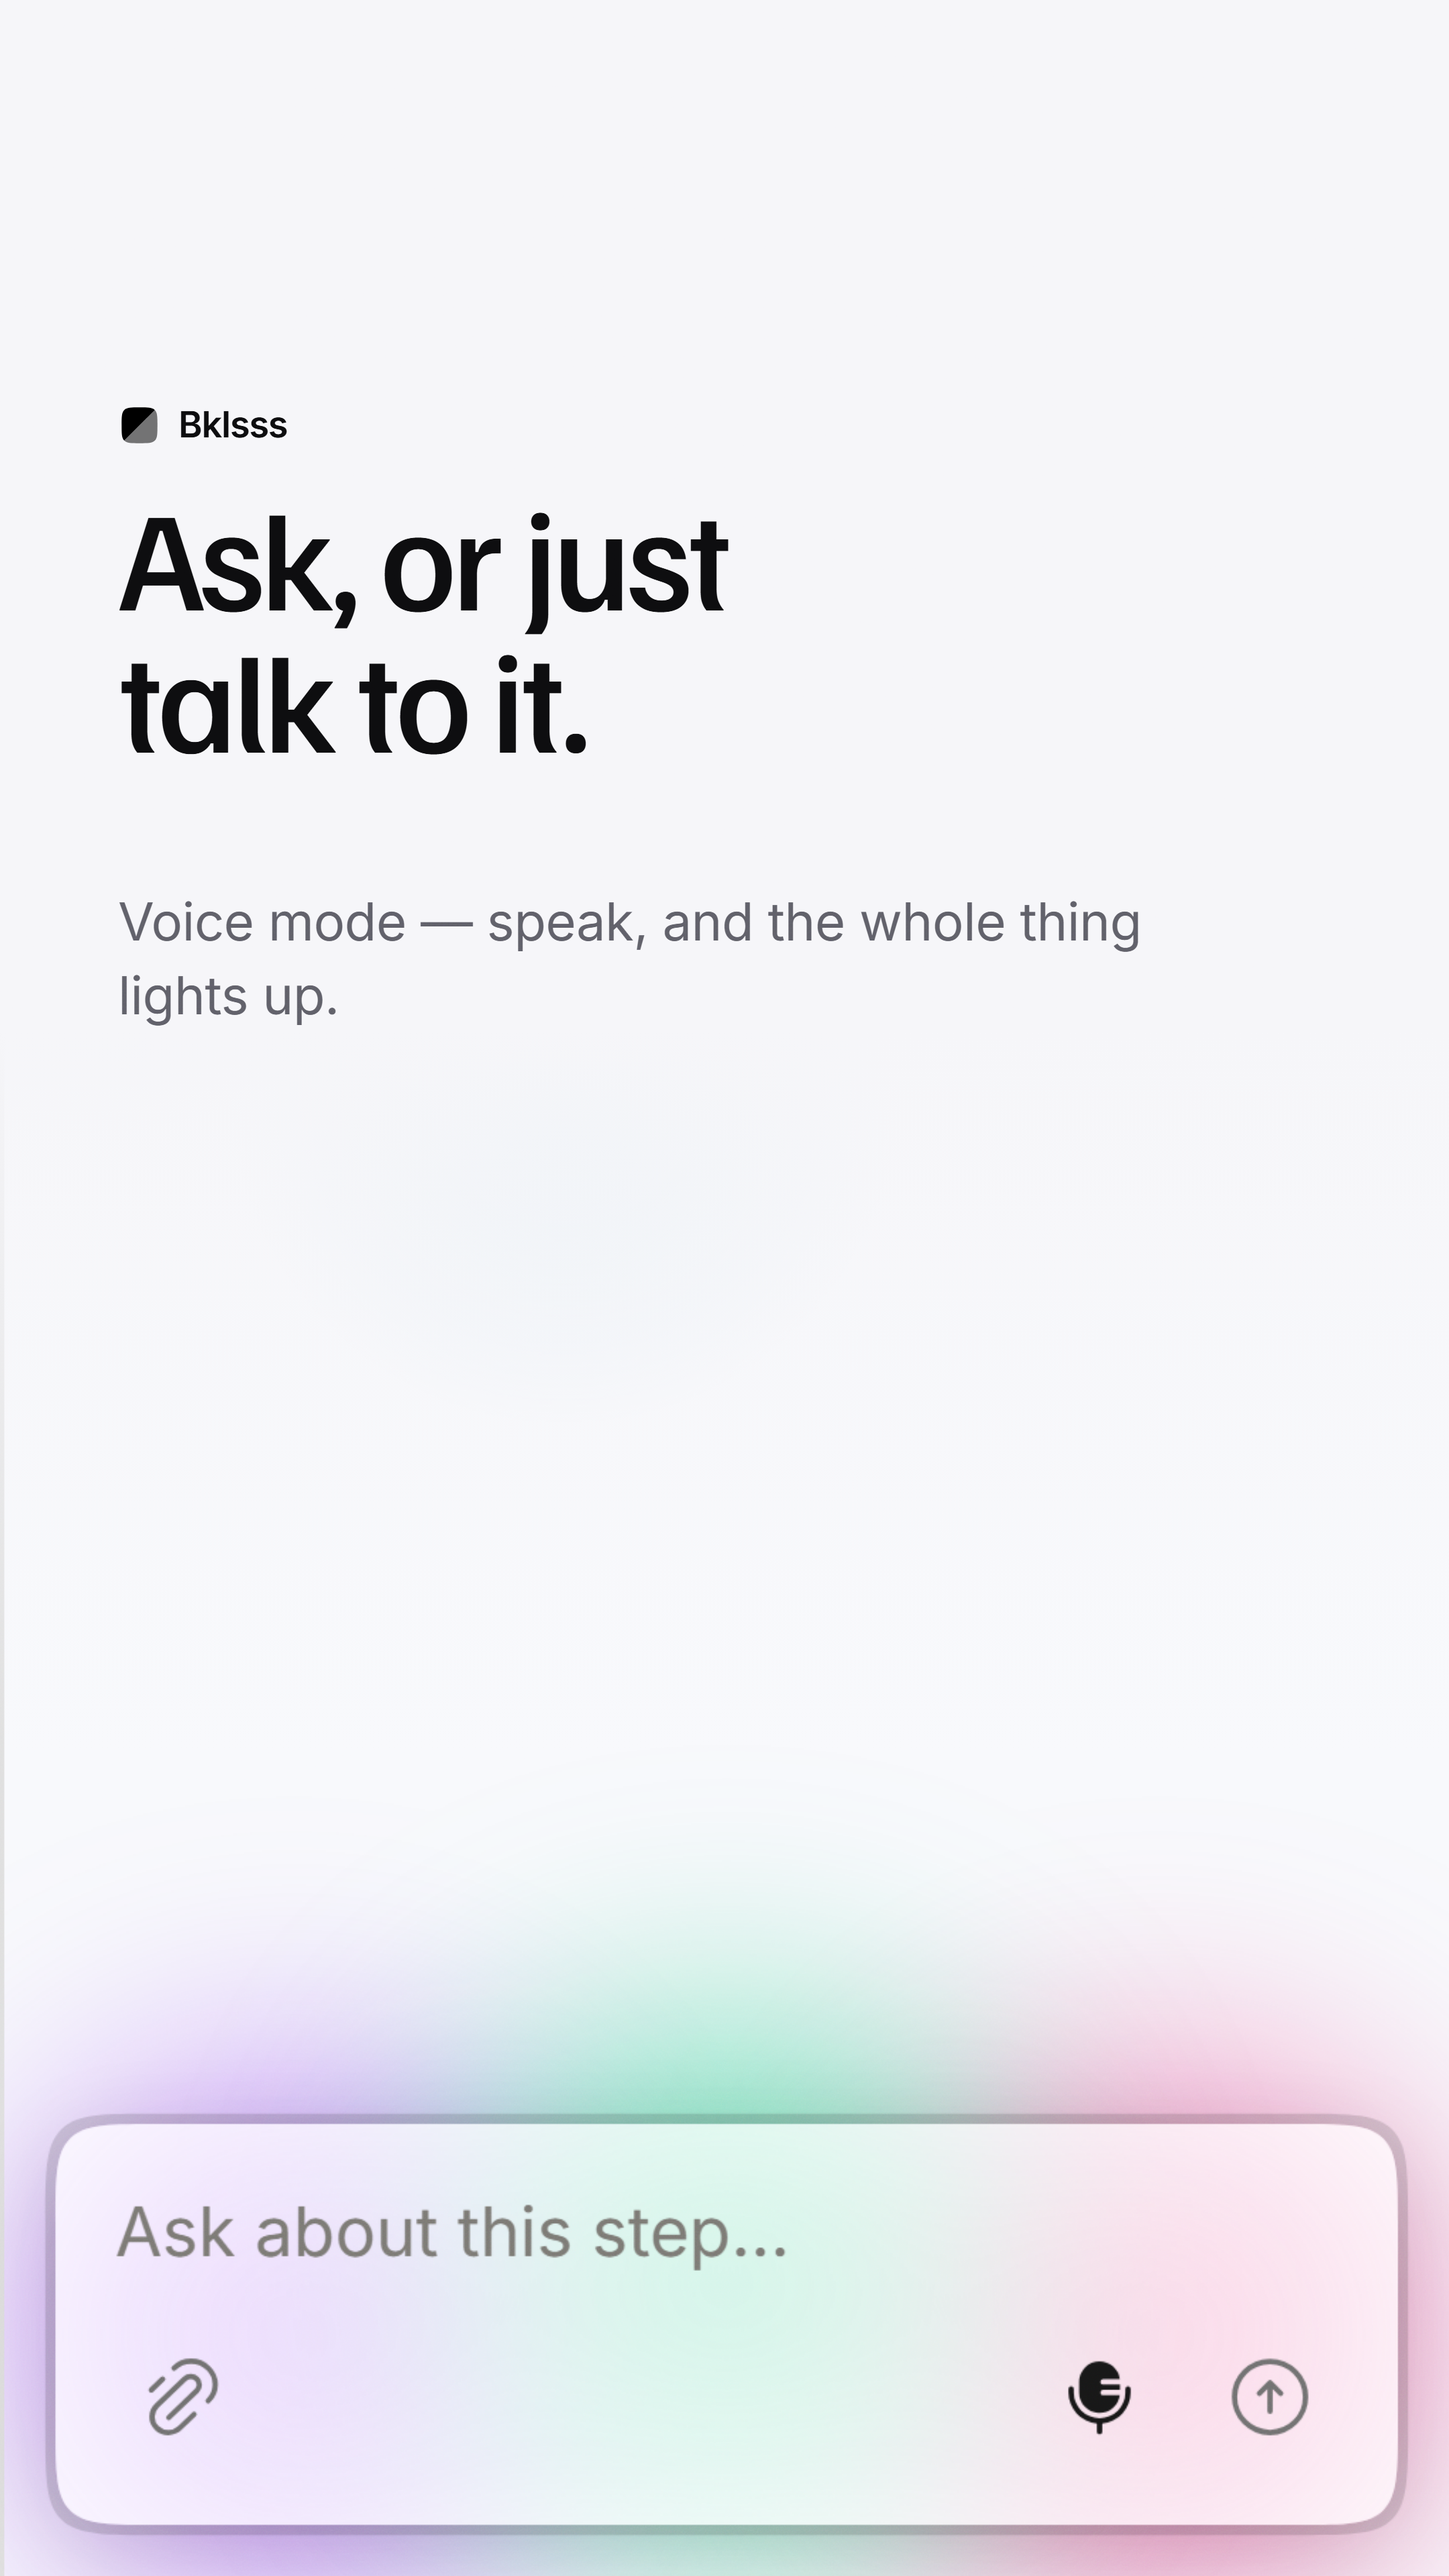
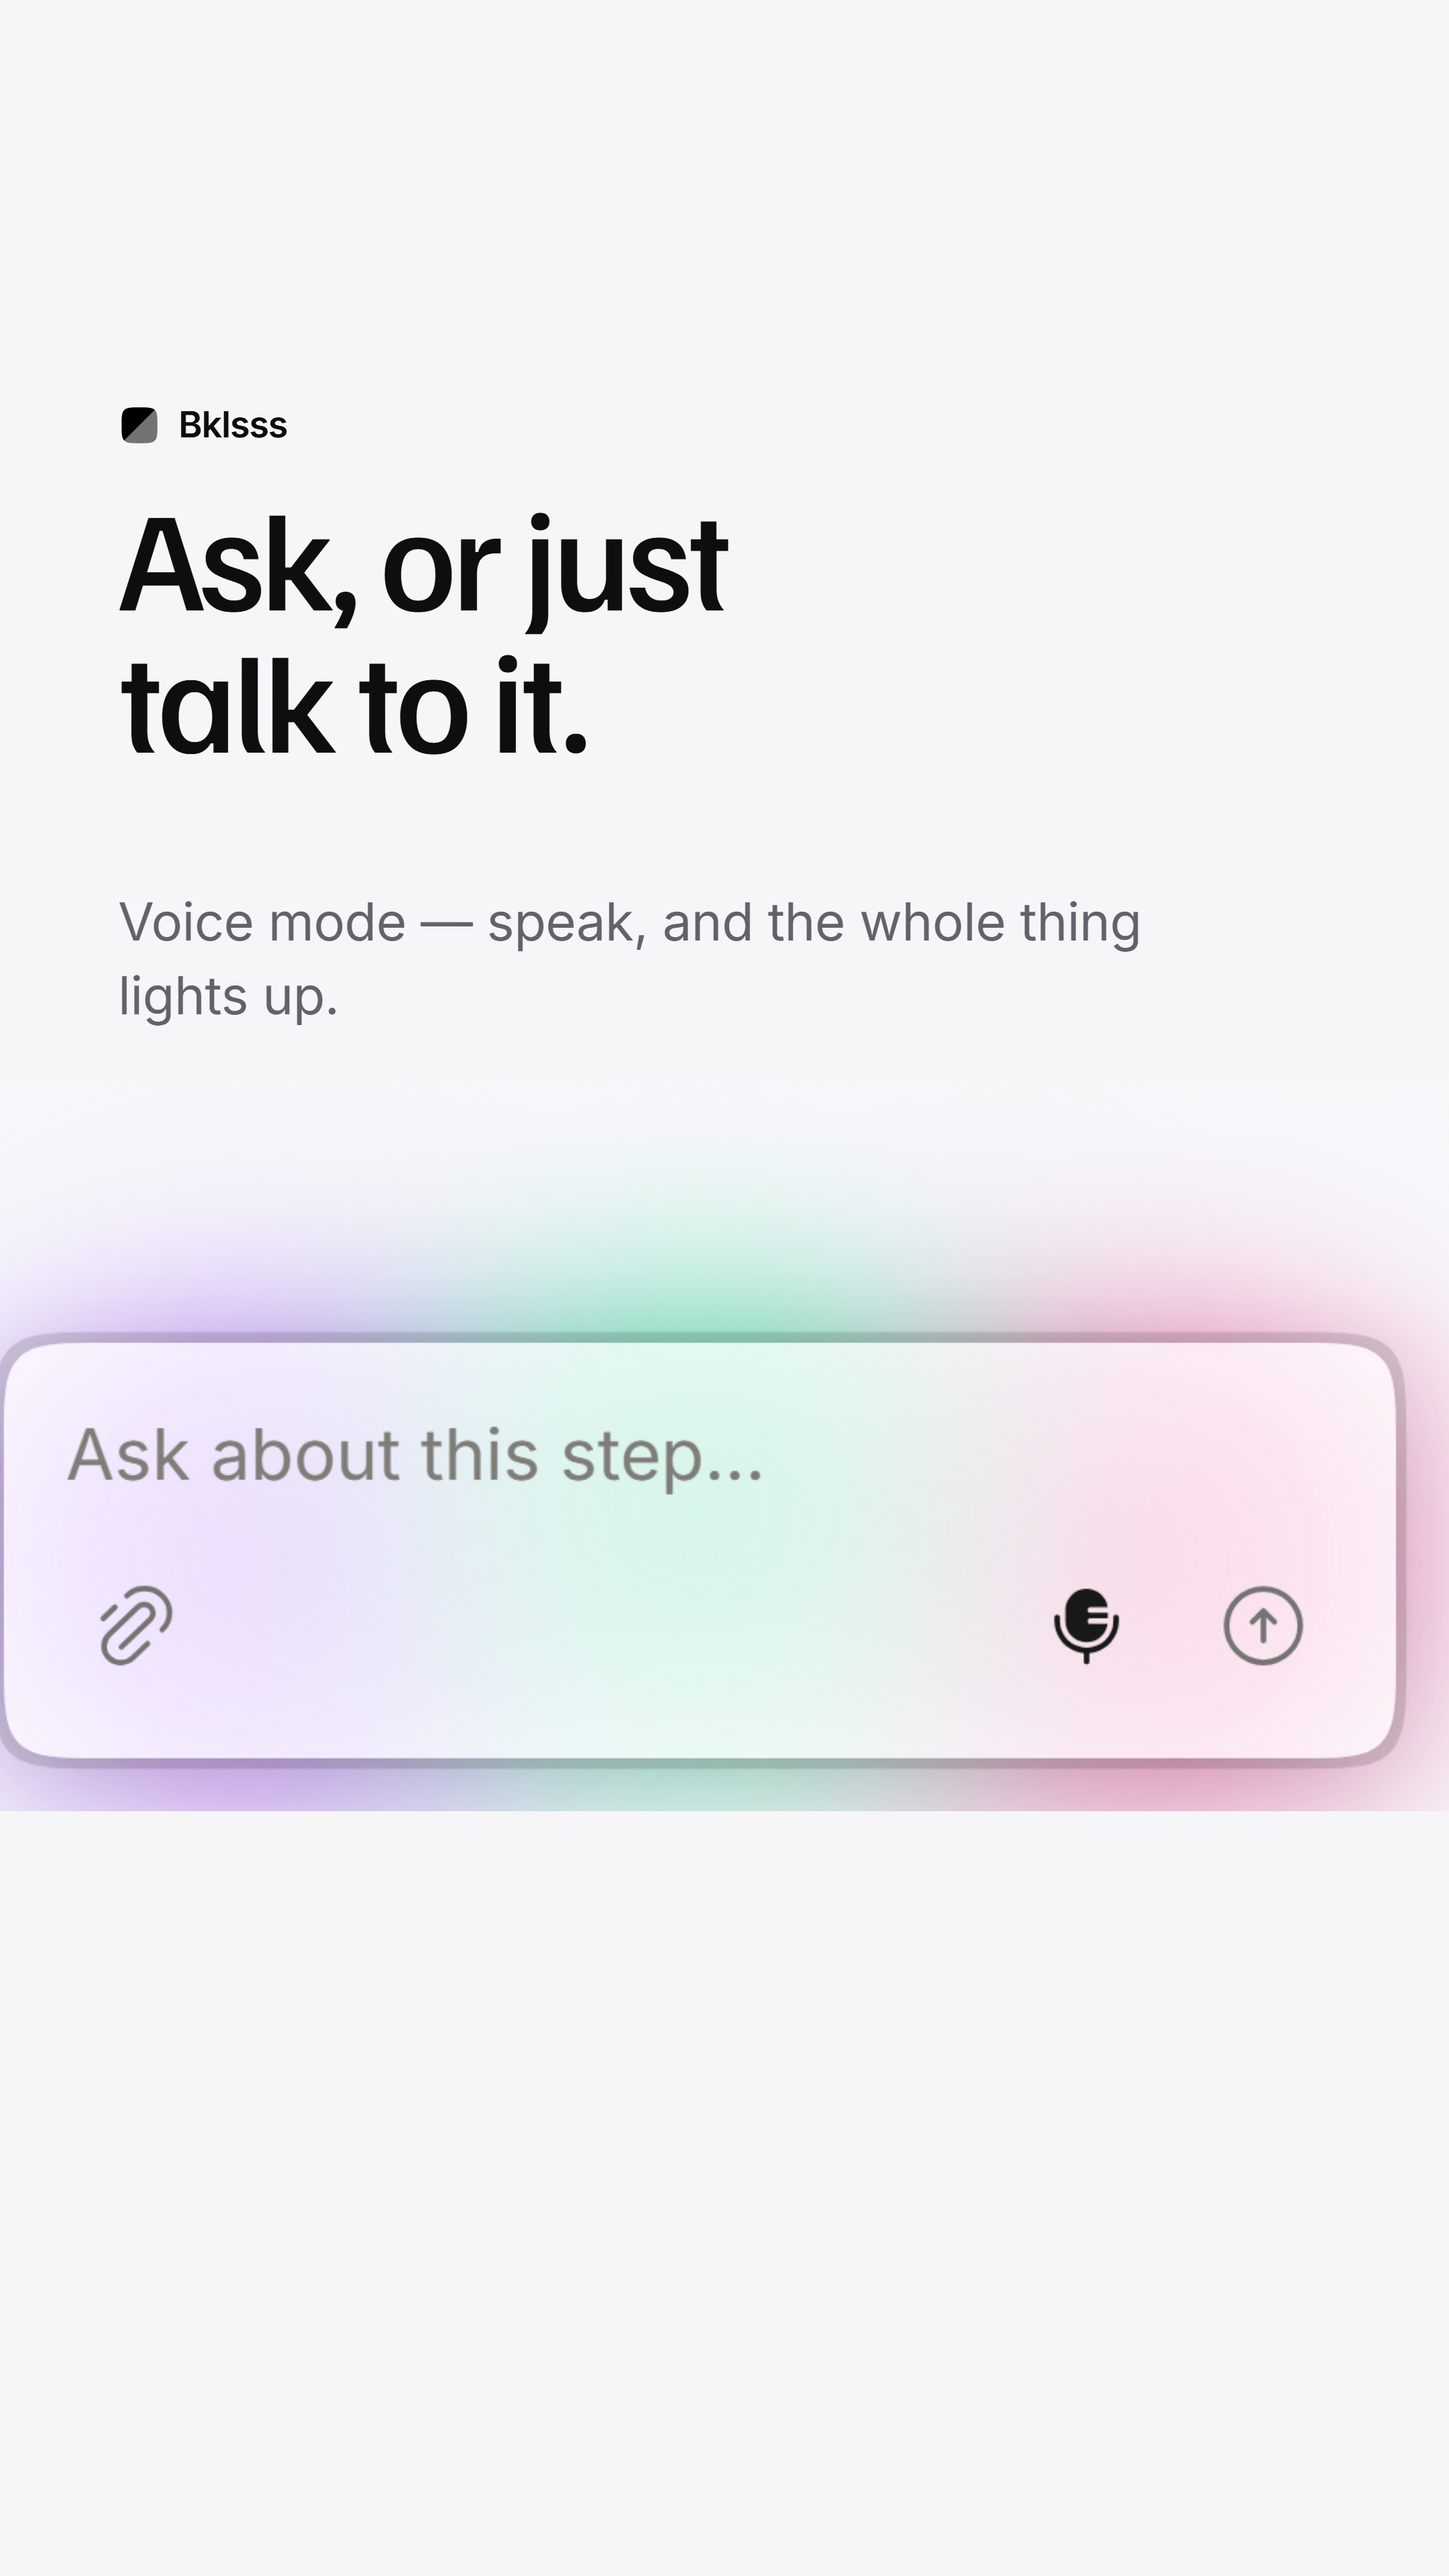
Session wrap 2026-07-26 (session 21) — social build-in-public progress posts, safe-area layout

Changed region(s): [[0.0, 0.4688, 1.0, 0.7188], [0.0, 0.75, 1.0, 1.0], [0.0931, 0.9062, 0.1551, 0.9375]]

diff --git a/PROJECT_MEMORY.md b/PROJECT_MEMORY.md
@@ -1,6 +1,6 @@
 # Booklesss — Project Memory
 
-**Last updated:** 2026-07-26 (session 20)
+**Last updated:** 2026-07-26 (session 21)
 
 ---
 
@@ -183,6 +183,76 @@ Confirm structure → lesson-skill scaffold → step-skill writes 1.1.
 ---
 
 ## Session Log
+
+### Session 2026-07-26 (session 21 — workspace reorg + social build-in-public pipeline)
+
+Parallel to session 20 (same OneDrive tree). This session: reorganised the
+workspace and built the daily-social system into a build-in-public progress log.
+
+**Done:**
+- **Marketing moved out of the app → `Demand/social/`** (owner's call: make Demand
+  the home). Renamed the inner `social/`→`stills/`. Recreated the lost `pw.mjs`
+  shim; repointed `paths.mjs` (Playwright borrowed from `platform/`); **vendored the
+  two app fonts into `_source/fonts/`** so the day generator is self-contained (no
+  build, no running server). Committed as `99d2c29`.
+- **`tools/`** created for standalone utilities (`transcribe*.py` moved from `_dev/`).
+  Removed 8 platform-root scratch files (blob/perf/test-pngs). **`WORKSPACE.md`** map
+  written (tree + "do not move" rules); CLAUDE.md/README pointers updated.
+- **Posts folder = week → weekday** (`posts/2026-W30 (Jul 20-26)/2026-07-26 Sunday/…`)
+  via a `dayFolder()` helper; both generators now default `DAY` to **today's real
+  date** (`new Date()`), fixing a wrong-date bug (see Dead Ends).
+- **Social pipeline (build-in-public):** `cap-feature.mjs` shoots the **live app,
+  mobile layout** (drawer-only clips so the composer + glow fill; strips the Next
+  dev badge; injects `--voice` for a lit glow); `prog-post.mjs` renders **full-bleed**
+  9:16 progress carousels (app fills the frame, no boxes, faded text zone).
+- **Two posts for today:** afternoon = **AI tutor** (composer / voice glow / typing
+  demo), evening = **reading + navigation**. Honest framing — the AI composer is
+  UI-only ("coming soon"), so copy says "building this", not "it answers".
+- **Safe-area layout:** lifted the focal UI into the centre safe box (clear of the
+  top ~260, bottom ~420 caption zone, right button rail), biased centre-left. CTA
+  trimmed to **"DM me 'link'"** (no "comment"), bigger sub text.
+- **2 feedback memories:** [[feedback_marketing_capture_mobile]] (shoot the mobile
+  layout), [[feedback_marketing_cta_dm]] (DM CTA, never "comment").
+
+**What Worked:**
+- **Stale `.next` dev-lock:** the concurrent dev server had crashed (PID dead, ports
+  free) but left a lock claiming ":3111 in use". `rm -rf platform/.next` cleared it →
+  fresh `next dev -p 3100` started fine. Diagnose with `Get-Process`/`Get-NetTCPConnection`
+  before assuming a real server is up.
+- **Vivid still glow:** DON'T grant the mic — then the component's loudness rAF loop
+  never starts, so an injected `--voice` (pushed past 1, e.g. 1.9 → opacity ~0.55)
+  sticks for the screenshot. The live app glow is intentionally subtle; a still needs
+  it stronger.
+- **Full-bleed + safe areas:** place the shot as a positioned `<img>` (not object-fit
+  cover — cover glues content to the bottom); a negative `top` lifts the focal UI into
+  the centre, with top+bottom bg-gradient fades dissolving it (no card, caption zone clear).
+- **Drawer-only clips** `{x:62,w:340}` drop the reader sliver so the composer/glow fill;
+  remove `nextjs-portal` before each screenshot to kill the dev badge.
+
+**Dead Ends (do not retry):**
+- **Hardcoded `DAY = "2026-07-25"`** → posts filed under a phantom "Saturday" folder
+  while today was **Sunday 2026-07-26**. Always derive from `new Date().toLocaleDateString("en-CA")`.
+- **Boxed device/card mockups** for the progress posts — owner rejected ("too small,
+  boxed, images repeated, no typing demo"). Use full-bleed zoomed crops, one distinct
+  shot per slide.
+- **Composer glued to the frame bottom** (object-fit cover "center bottom") — lands in
+  the IG/TikTok caption zone and gets covered. Must lift into the centre safe box.
+
+**Flags:**
+- **Linear (`linear-server`) needs auth** — backlog not updated this session.
+- **Parallel session** (session 20 reader + a new `Demand/video/` Remotion project)
+  shares the tree. Committed my files via pathspec; left `Demand/video/*` and
+  `platform/src/{globals.css,RightPanel.tsx}` uncommitted for that effort.
+- **Dev server left running** on `localhost:3100`.
+- No posting connector exists — the posts are a **manual upload**.
+
+**Next Session:**
+- [ ] Post Sunday's afternoon + evening progress posts (manual upload).
+- [ ] Redo or drop the old evergreen `morning/` post (stale "comment" CTA, desktop crops).
+- [ ] Optional: dial safe-area margins to exact pixel specs if the owner provides them.
+- [ ] Mobile re-capture + crop-geometry re-tune for the daily carousels (per [[feedback_marketing_capture_mobile]]).
+
+---
 
 ### Session 2026-07-26 (session 20 — reader right-panel + AI composer + voice glow)
 
